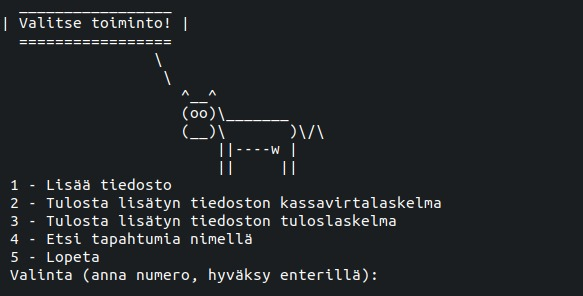
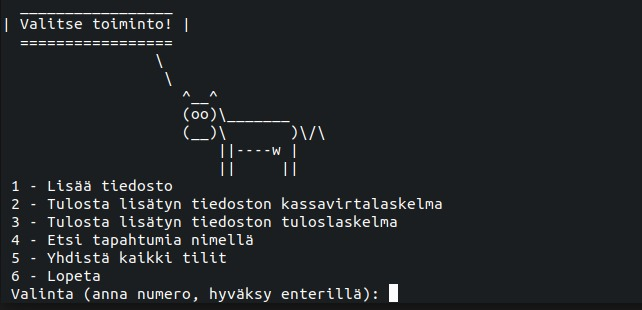
Käyttöohjeen ja sen kuvien päivitys vastaamaan tämänhetkisiä toimintoja

Changed region(s): [[0.0, 0.5777, 0.7719, 0.973], [0.247, 0.1824, 0.5557, 0.6081], [0.0, 0.0304, 0.3396, 0.152]]

diff --git a/dokumentaatio/kayttoohje.md b/dokumentaatio/kayttoohje.md
@@ -73,7 +73,7 @@ Ohjelma käynnistyy terminaalissa ja antaa toimintavalikon:
 Kun käytät ohjelmaa ensimmäistä kertaa, pitää sinun aluksi antaa ohjalmelle tallennettava tiedosto. Ohjelma kysyy tiedoston nimeä
 ja sijaintia ja pyytää sinua myös antamaan tilille nimen. Tiedoston antamisen jälkeen ohjelma pyytää sinulta tilitapahtumien
 luokittelua. Tällä hetkellä luokittelussa ovat vaihtoehtoina vain Tulot, Menot, Oma tili ja Lainat. Kun olet luokitellut kaikki
-tilitapahtumat, pääset käyttämään valikon vaihtoehtoja 2-4.
+tilitapahtumat, pääset käyttämään valikon vaihtoehtoja 2-5. Valinnasta 5 on hyötyä vain, jos olet tallettanut vähintään kaksi tiliä.
 
 Ohjelma käyttää tilapäisesti tallennettuja tietoja vaihtoehdoissa 2-3. Nämä valinnat tarjoavat mahdollisuuden tulostaa ruudulle viimeksi
 tallennetun tilin Kassavirtalaskelman ja Tuloslaskelman. Kassavirtalaskelmassa on kaikki tilille tulevat panot ja tililtä lähtevät
@@ -93,6 +93,13 @@ sen alkuosalla ja käyttää pieniä kirjaimia tähän tapaan:
 ![](./kuvat/tapahtumat.jpeg)
 
 Ohjelma tulostaa löydetyt tapahtumat, jonka jälkeen voit jatkaa tapahtumien hakua samalta tililtä tai palata päävalikkoon.
+
+Jos olet tallettanut useampia tilejä, voit valita päävalikossa valinnan 5. Tämän jälkeen tapahtumahaussa näkyy myös tili Yhdistetty,
+jolta voit tehdä tapahtumahakuja samaan tapaan kuin muiltakin tileiltä.
+
+![](./kuvat/yhdistetty.jpeg)
+
+Yhdistetyllä tilillä näkyy koottuna kaikkien muiden tilien samannimiset tapahtumat.
 
 
 
